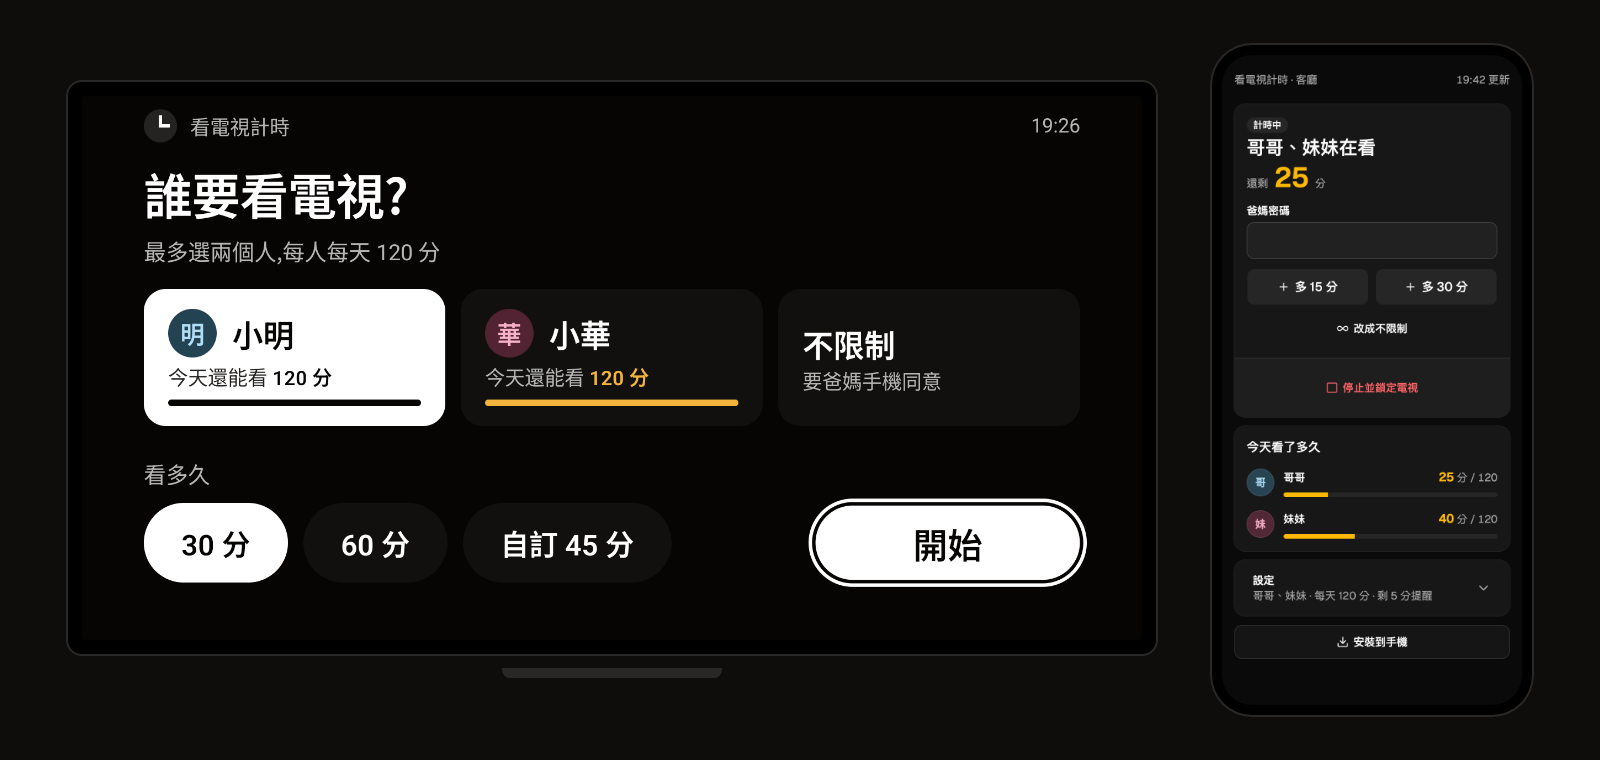
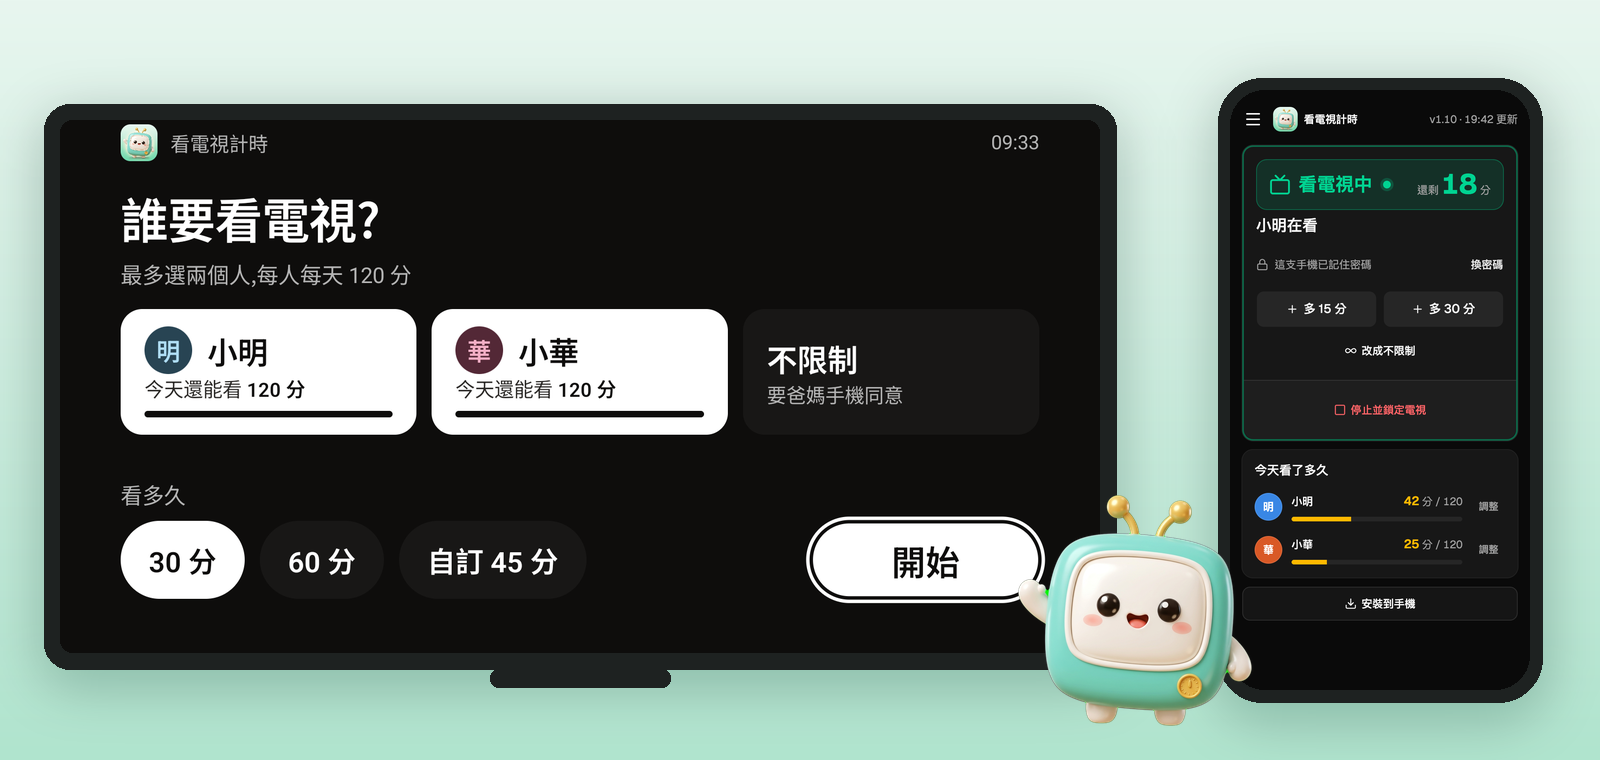
README 截圖全部換新;修:電視「爸媽同意」畫面文字被擠到換行
- 重拍電視(選人、繼續上次、爸媽同意、時間到、6 種配色)和手機頁(看電視中、等你同意、觀看分析、配色、選單),首頁大圖加小電
- 爸媽同意畫面:小電改放在「取消」旁邊,文字欄不再被擠窄
- 版本 1.11

diff --git a/app/src/main/java/ai/threemi/tvtimer/LockUi.kt b/app/src/main/java/ai/threemi/tvtimer/LockUi.kt
@@ -358,10 +358,14 @@ private fun Approval(code: String) {
         Spacer(Modifier.height(10.dp))
         Text("手機要連家裡的 Wi-Fi", style = Body.copy(color = T.Faint))
         Spacer(Modifier.height(36.dp))
-        Secondary("取消", Modifier.focusRequester(first)) { Store.cancelApproval() }
+        // 小電放在「取消」旁邊,不要擠到文字(電視只有 960dp 寬)
+        Row(verticalAlignment = Alignment.CenterVertically) {
+          Secondary("取消", Modifier.focusRequester(first)) { Store.cancelApproval() }
+          Spacer(Modifier.width(36.dp))
+          Image(painterResource(R.drawable.tvbot_phone), null, Modifier.size(150.dp))
+        }
       }
-      Image(painterResource(R.drawable.tvbot_phone), null, Modifier.size(210.dp))
-      Spacer(Modifier.width(20.dp))
+      Spacer(Modifier.width(24.dp))
       Image(qr.asImageBitmap(), "爸媽同意用的 QR code", Modifier.size(340.dp).clip(T.Card).background(Color.White).padding(18.dp))
     }
   }

diff --git a/README.md b/README.md
@@ -53,13 +53,26 @@ tv-timer puts the decision on the screen itself:
 
 | | |
 |---|---|
-| ![TV: continue last time](docs/tv-resume.png) | ![TV: a parent scans to approve "no limit"](docs/tv-approval.png) |
-| **TV after standby:** continue with the minutes left | **"No limit":** the parent scans the QR code to approve |
+| ![TV: who is watching and for how long](docs/tv-picker.png) | ![TV: continue last time](docs/tv-resume.png) |
+| **Picker:** the TV opens on "who, and for how long" | **After standby:** continue with the minutes left |
+| ![TV: a parent scans to approve "no limit"](docs/tv-approval.png) | ![TV: time's up](docs/tv-timeup.png) |
+| **"No limit":** a parent scans the QR code to approve | **Time's up:** a short tune plays and the TV locks |
 
-<p align="center"><img src="docs/phone-approve.png" alt="Parent phone page: approve no limit" width="300" />&nbsp;&nbsp;<img src="docs/phone-watching.png" alt="Parent phone page: watching, 25 minutes left" width="300" /></p>
-<p align="center"><b>Parent phone page:</b> approve or decline; add time while they watch</p>
+![TV color themes](docs/tv-themes.png)
+<p align="center"><b>Six TV color themes</b>, switched from the phone</p>
 
-> Names in the screenshots are sample data.
+<p align="center">
+  <img src="docs/phone-watching.png" alt="Parent phone page: watching" width="230" />&nbsp;
+  <img src="docs/phone-approve.png" alt="Parent phone page: approve no limit" width="230" />&nbsp;
+  <img src="docs/phone-analytics.png" alt="Parent phone page: viewing history" width="230" />
+</p>
+<p align="center">
+  <img src="docs/phone-themes.png" alt="Parent phone page: TV themes" width="230" />&nbsp;
+  <img src="docs/phone-menu.png" alt="Parent phone page: menu" width="230" />
+</p>
+<p align="center"><b>Parent phone page:</b> status at a glance, approve "no limit", per-kid limits ("no TV this week"), viewing history, themes, one-tap updates</p>
+
+> Names in the screenshots are sample data. The mascot is "小電" (Little TV).
 
 ## How it works
 

diff --git a/docs/README.zh-TW.md b/docs/README.zh-TW.md
@@ -45,13 +45,26 @@ tv-timer 把決定放在電視畫面上:
 
 | | |
 |---|---|
-| ![電視:繼續上次](tv-resume.png) | ![電視:不限制要爸媽掃 QR code](tv-approval.png) |
-| **電視待機後再打開:** 剩下的分鐘接著用 | **「不限制」:** 爸媽掃 QR code 同意 |
+| ![電視:選誰、看多久](tv-picker.png) | ![電視:繼續上次](tv-resume.png) |
+| **選人畫面:** 打開電視先選誰看、看多久 | **待機後再打開:** 剩下的分鐘接著用 |
+| ![電視:不限制要爸媽掃 QR code](tv-approval.png) | ![電視:時間到](tv-timeup.png) |
+| **「不限制」:** 爸媽手機掃 QR code 同意 | **時間到:** 播一段音樂、鎖起來,小電抱著鬧鐘提醒 |
 
-<p align="center"><img src="phone-approve.png" alt="爸媽手機頁:同意不限制" width="300" />&nbsp;&nbsp;<img src="phone-watching.png" alt="爸媽手機頁:計時中還剩 25 分" width="300" /></p>
-<p align="center"><b>爸媽手機頁:</b>同意或不同意;看的時候可以加時間</p>
+![電視配色:暖黑、深夜藍、森林綠、純白、奶茶、馬卡龍](tv-themes.png)
+<p align="center"><b>電視配色:</b>6 種,手機點一下電視馬上換</p>
 
-> 截圖裡的名字都是範例資料。
+<p align="center">
+  <img src="phone-watching.png" alt="爸媽手機頁:看電視中" width="230" />&nbsp;
+  <img src="phone-approve.png" alt="爸媽手機頁:等你同意" width="230" />&nbsp;
+  <img src="phone-analytics.png" alt="爸媽手機頁:觀看分析" width="230" />
+</p>
+<p align="center">
+  <img src="phone-themes.png" alt="爸媽手機頁:電視配色" width="230" />&nbsp;
+  <img src="phone-menu.png" alt="爸媽手機頁:側邊選單" width="230" />
+</p>
+<p align="center"><b>爸媽手機頁:</b>一眼看狀態、同意不限制、每個小孩另外設上限(這週不能看)、觀看分析、換配色、手機更新</p>
+
+> 截圖裡的名字都是範例資料。吉祥物是「小電」。
 
 ## 架構
 
